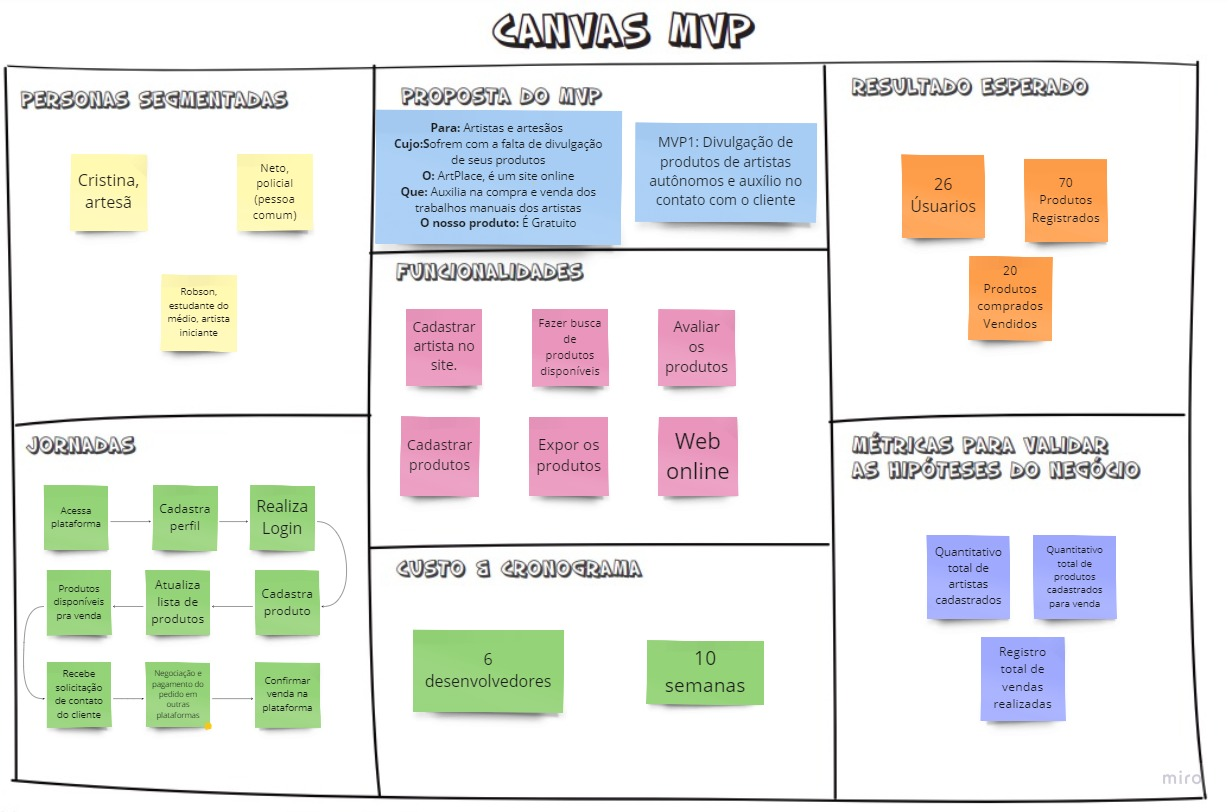
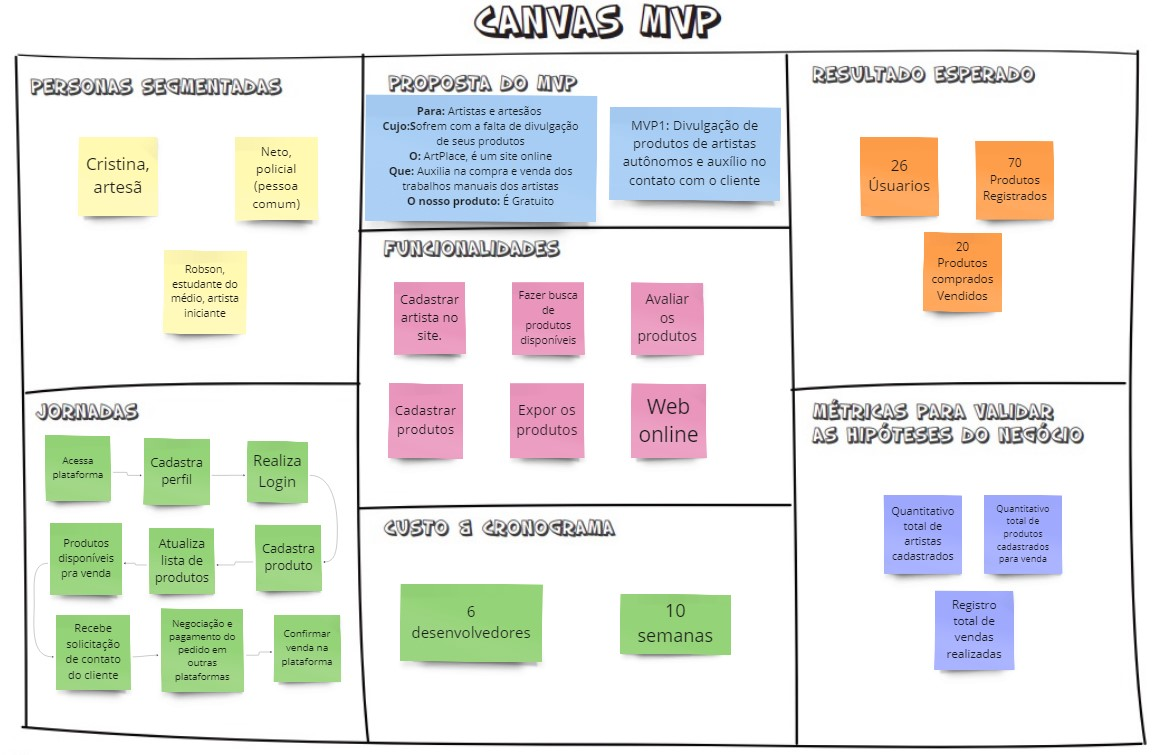
corrigindo foto MVP

diff --git a/docs/MVP.md b/docs/MVP.md
@@ -1,7 +1,7 @@
-### MVP
+## MVP
 
-Com a realização da checklist analisando cada US baseada nos critérios de Valor de negócio, viabilidade e complexidade técnica, nos congueguimos definir o MVP com as principais prioridades que encontramos nessa análise.
+Com a realização da checklist analisando cada US baseada nos critérios de Valor de negócio, viabilidade e complexidade técnica, nos consueguimos definir o MVP com as principais prioridades que encontramos nessa análise.
 
 Para uma melhor visualização do nosso MVP , clique <a href="https://miro.com/app/board/uXjVNeUBBRc=/?share_link_id=982612454503" target= "_blank">aqui</a>. para acessar o nosso mural  
 
-![Image title](assets/mvp.jpg)
+![Image title](assets/MVP.jpg)
